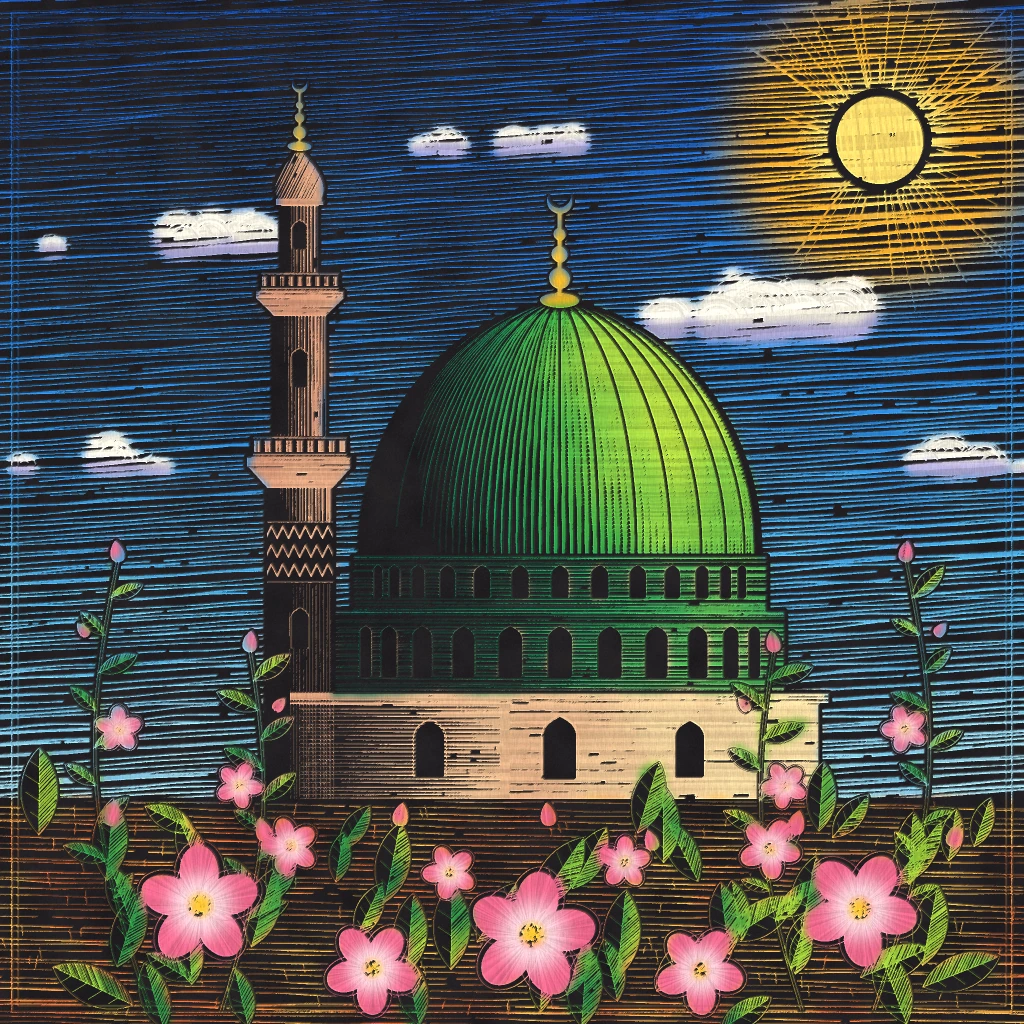
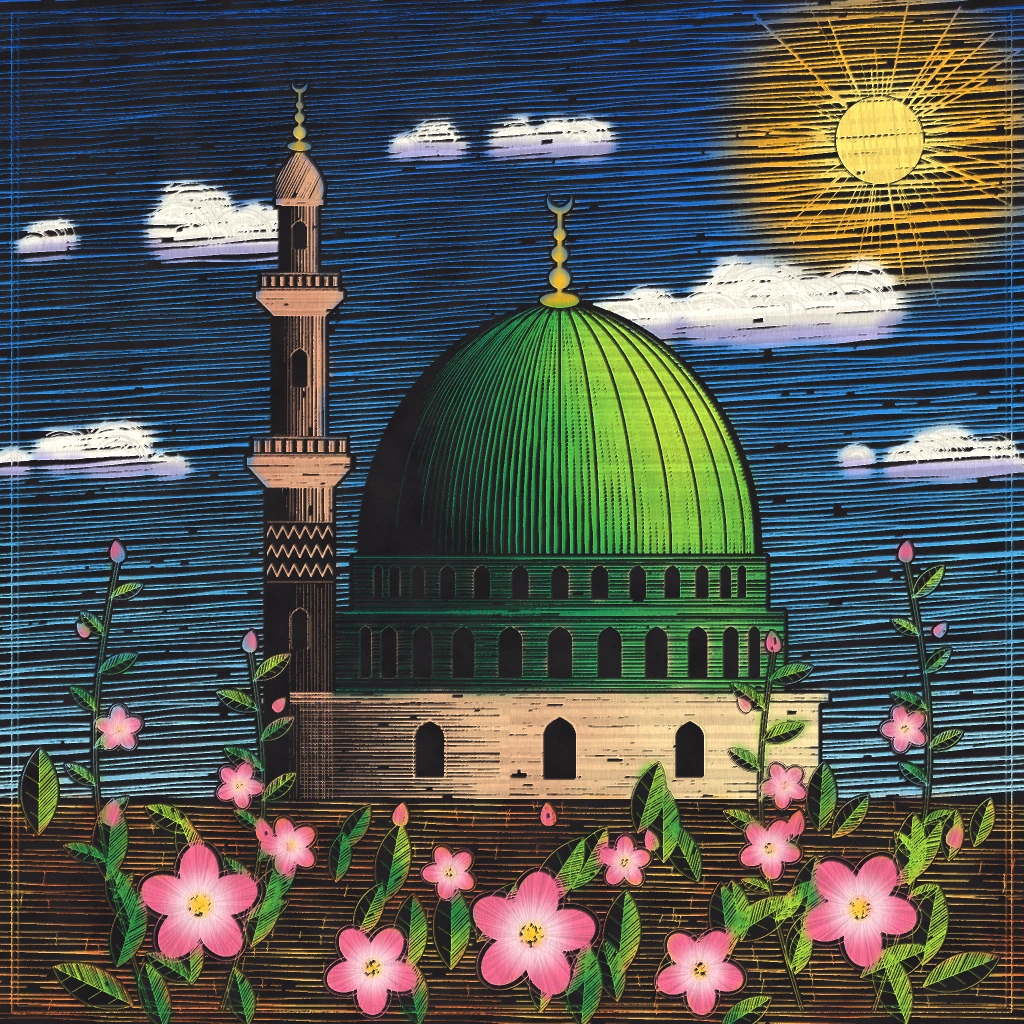
Atölye: guaj, akrilik, tempera, fresk, enkostik gözden geçirildi
Claude-Session: https://claude.ai/code/session_01Q8CfoBGMPN7gfLWQYpMs1J

diff --git a/atolye/stiller/S-050-sunger-boyama/ornek.html b/atolye/stiller/S-050-sunger-boyama/ornek.html
@@ -226,12 +226,13 @@
     for (let k = 0; k < 420; k++) { const x = R() * W, y = R() * 810; t(x, y, 34 + R() * 40, oyn(y < 400 ? [128, 190, 214] : [156, 206, 214], 0.06), 0.85); }
   });
   katman(gokS, (t) => {
-    for (let k = 0; k < 900; k++) {
-      const x = R() * W, y = Math.pow(R(), 1.4) * 720;
-      if (gunesD(x, y) < 200 + R() * 60 || R() < y / 820) continue;
-      t(x, y, 14 + R() * 22, oyn(R() < 0.65 ? [78, 148, 206] : [52, 104, 186], 0.08), 0.6);
+    // daha sakin gök: daha az ama daha geniş, yarı saydam koyu mavi tamponlar; üste doğru yoğunlaşır
+    for (let k = 0; k < 520; k++) {
+      const x = R() * W, y = Math.pow(R(), 1.6) * 700;
+      if (gunesD(x, y) < 210 + R() * 60 || R() < y / 760) continue;
+      t(x, y, 20 + R() * 24, oyn(R() < 0.7 ? [78, 148, 206] : [56, 108, 188], 0.06), 0.5);
     }
-    for (let k = 0; k < 70; k++) { const x = R() * W, y = 200 + R() * 500; if (gunesD(x, y) < 250) continue; t(x, y, 20 + R() * 25, oyn([164, 152, 210], 0.06), 0.6); }
+    for (let k = 0; k < 30; k++) { const x = R() * W, y = 220 + R() * 440; if (gunesD(x, y) < 260) continue; t(x, y, 22 + R() * 22, oyn([164, 152, 210], 0.05), 0.45); }
   });
   // güneşe ve ufka doğru sıcak
   katman(gokS, (t) => {
@@ -336,7 +337,11 @@
   const tomS = sablon((g) => { for (const d of Y.tomurcuklar) g.fill(P(d)); });
   katman(tomS, (t) => { for (const b of B.tomurcuklar) { t(b.x, b.y, b.r * 1.4, oyn([226, 120, 150], 0.06), 0.95); t(b.x + 2, b.y - 3, b.r * 0.8, oyn([248, 190, 204], 0.04), 0.9); } });
   const tacS = sablon((g) => { for (const d of Y.cicekler) g.fill(P(d)); });
-  katman(tacS, (t) => { for (const c of B.cicekler) for (let k = 0; k < 6; k++) { const a = R() * Math.PI * 2, r = R() * c.r * 0.8; t(c.x + Math.cos(a) * r, c.y + Math.sin(a) * r, c.r * 0.5, oyn([253, 252, 248], 0.02), 0.95); } });
+  // taç yaprakları: önce bütün yaprağı örten beyaz tamponlar (uçlar dahil), sonra şablon kenarında ince lavanta gölge
+  katman(tacS, (t) => { for (const c of B.cicekler) for (let k = 0; k < 14; k++) { const a = (k / 14) * Math.PI * 2 + R() * 0.4, r = (k % 2 ? 0.45 : 0.85) * c.r + (R() - 0.5) * c.r * 0.15; t(c.x + Math.cos(a) * r, c.y + Math.sin(a) * r, c.r * 0.45, oyn([253, 252, 248], 0.02), 0.95); } });
+  katman(tacS, (t) => { for (const c of B.cicekler) for (let k = 0; k < 8; k++) { const a = R() * Math.PI * 2, r = R() * c.r * 0.9; t(c.x + Math.cos(a) * r, c.y + Math.sin(a) * r, c.r * 0.42, oyn([255, 255, 252], 0.01), 0.9); } });
+  const tacKenarS = sablon((g) => { g.lineWidth = 3.2; for (const d of Y.cicekler) g.stroke(P(d)); g.globalCompositeOperation = 'destination-in'; for (const d of Y.cicekler) g.fill(P(d)); });
+  katman(tacKenarS, (t) => { for (const c of B.cicekler) for (let k = 0; k < 16; k++) { const a = (k / 16) * Math.PI * 2, gol = 0.5 - 0.5 * (Math.cos(a) * 0.75 - Math.sin(a) * 0.66); t(c.x + Math.cos(a) * c.r * 0.9, c.y + Math.sin(a) * c.r * 0.9, c.r * 0.32, oyn([176, 164, 206], 0.04), 0.35 + 0.55 * gol); } });
   katman(tacS, (t) => {
     for (const c of B.cicekler) {
       for (let k = 0; k < 5; k++) { const a = R() * Math.PI * 2; t(c.x + Math.cos(a) * c.r * 0.28, c.y + Math.sin(a) * c.r * 0.28, c.r * 0.34, oyn([238, 160, 186], 0.05), 0.75); }

diff --git a/atolye/stiller/S-044-fresk/ornek.html b/atolye/stiller/S-044-fresk/ornek.html
@@ -491,7 +491,7 @@
     const i = y * WW + x, X = x / S, Yy = y / S;
     let h = GL[i] * 0.9 + nC(X * 1.3, Yy * 1.3) * 0.1 + nD(X * 3.1, Yy * 3.1) * 0.05 + fbm(nA, X / 45 + 9, Yy / 9, 2) * 0.35;
     h -= KAYb[i] * 0.5 + BKb[i] * 0.9 + DERb[i] * 0.5;
-    h += EKb[i] * 0.3 - CAT[i] * 0.15;
+    h += EKb[i] * 0.18 - CAT[i] * 0.15;
     H[i] = h;
   }
   const Hb = bulanik(H, WW, WW, 1, 1);
@@ -518,7 +518,7 @@
       r = lerp(r, ar[0], kk); g = lerp(g, ar[1], kk); b = lerp(b, ar[2], kk);
     }
     // ek yeri ve çatlak kiri
-    const ek = EKb[i] * (1 - kk) * 0.07, ct = CAT[i] * 0.24;
+    const ek = EKb[i] * (1 - kk) * 0.05, ct = CAT[i] * 0.24;
     r *= 1 - ek - ct * 0.7; g *= 1 - ek - ct * 0.72; b *= 1 - ek - ct * 0.75;
     // sıva ışığı (sağ üstten)
     const xa = x > 0 ? i - 1 : i, xb = x < WW - 1 ? i + 1 : i, ya = y > 0 ? i - WW : i, yb = y < WW - 1 ? i + WW : i;

diff --git a/atolye/stiller/S-048-sgrafito/ornek.html b/atolye/stiller/S-048-sgrafito/ornek.html
@@ -283,7 +283,11 @@
       cizgi([[880 + Math.cos(a) * r0, 140 + Math.sin(a) * r0], [880 + Math.cos(a) * (r0 + L * 0.5) + (R() - 0.5) * 2, 140 + Math.sin(a) * (r0 + L * 0.5) + (R() - 0.5) * 2], [880 + Math.cos(a) * (r0 + L), 140 + Math.sin(a) * (r0 + L)]], 0.8 + R() * 1.6, 0.6);
     }
   }
-  aktar(bolgeMaskesi(['gok', 'gunes'], 1.3));
+  { // güneş diski ile gök arasındaki kenar yumuşatma pikselleri başka bölge sayılmasın: disk çevresi gök maskesine katılır
+    const mg = bolgeMaskesi(['gok', 'gunes'], 1.3);
+    for (let py = (60 * S) | 0; py < 220 * S; py++) for (let px = (800 * S) | 0; px < 960 * S; px++) if (Math.hypot(px / S - 880, py / S - 140) < 60) mg[py * W2 + px] = 1;
+    aktar(mg);
+  }
 
   // ---- kubbe: meridyen boyunca tarama, kaburgalar koyu kalır; ışıklı yanda kaburga yanına parlak çizgi
   {
